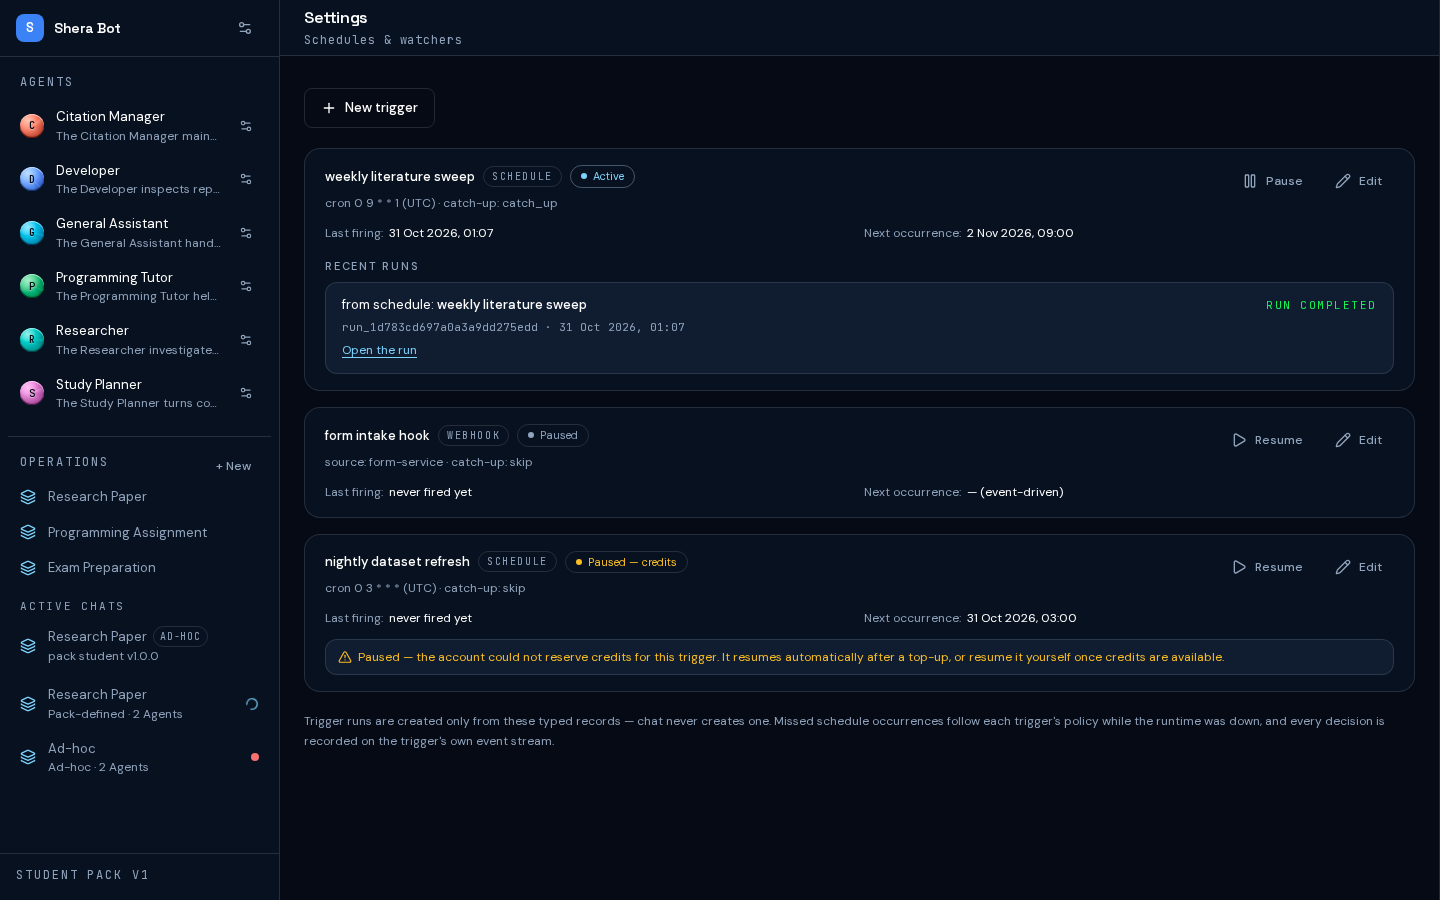
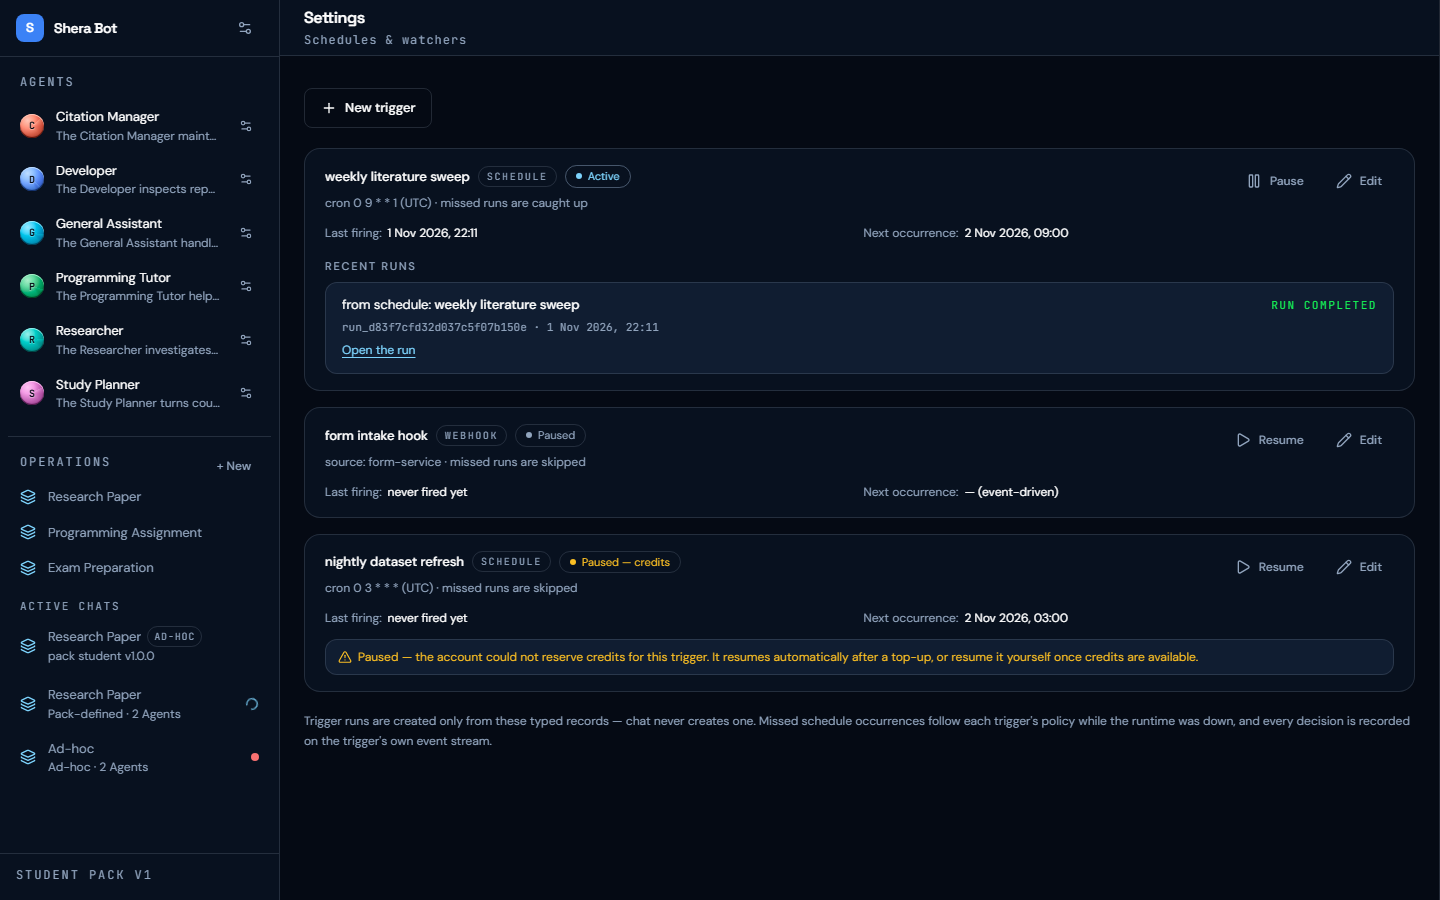
chore(s28): the full capture set + the taste pass — the missed-occurrence policy renders in the product's words, never the raw enum
Captures (the S23 completeness bar, all against the PROD build with the AC9 truth leg passing twice): 360/768/1440 viewports, edit-open, create form, keyboard trail JSON + screenshot (visible focus on every stop), reduced-motion. Taste-pass finding fixed: the card meta line rendered 'catch-up: catch_up' — a raw enum after a duplicated label; now 'missed runs are caught up / skipped'. Scope decision recorded for E37: AC10's run-card naming is satisfied on the settings surface (RunCard renders 'from {kind}: {name}'); the Operation-runs panel has no trigger field on the wire and the contract is not extended.

diff --git a/apps/web/components/settings/schedules-settings.tsx b/apps/web/components/settings/schedules-settings.tsx
@@ -36,6 +36,13 @@ const KIND_LABELS: Record<TriggerView["kind"], string> = {
   external_event: "External event",
 };
 
+/** The missed-occurrence policy in the product's own words (the raw enum
+ * never renders — the card's meta line is prose, not configuration). */
+const CATCH_UP_LABELS: Record<TriggerView["catch_up_policy"], string> = {
+  catch_up: "missed runs are caught up",
+  skip: "missed runs are skipped",
+};
+
 /** The cron expression's display form (data, never recomputed — AC9). */
 function scheduleCron(config: Record<string, unknown>): string | null {
   const cron = config["cron"];
@@ -209,7 +216,7 @@ function TriggerCard({
             <StateChip trigger={trigger} />
           </div>
           <p className="mt-1.5 text-xs text-muted">
-            {description ?? KIND_LABELS[trigger.kind]} · catch-up: {trigger.catch_up_policy}
+            {description ?? KIND_LABELS[trigger.kind]} · {CATCH_UP_LABELS[trigger.catch_up_policy]}
           </p>
         </div>
         <div className="flex shrink-0 items-center gap-2">
